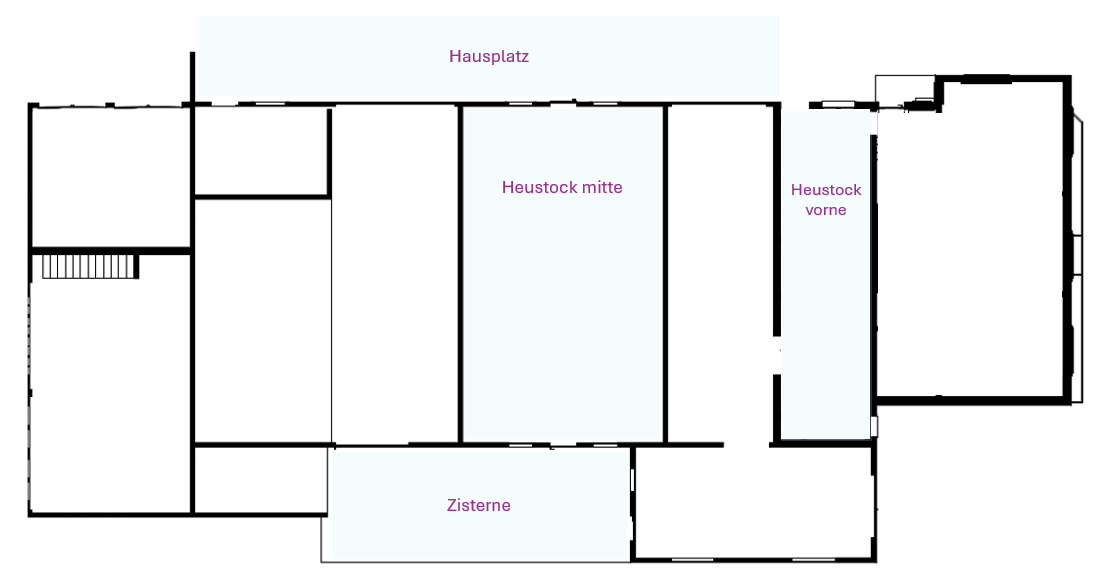
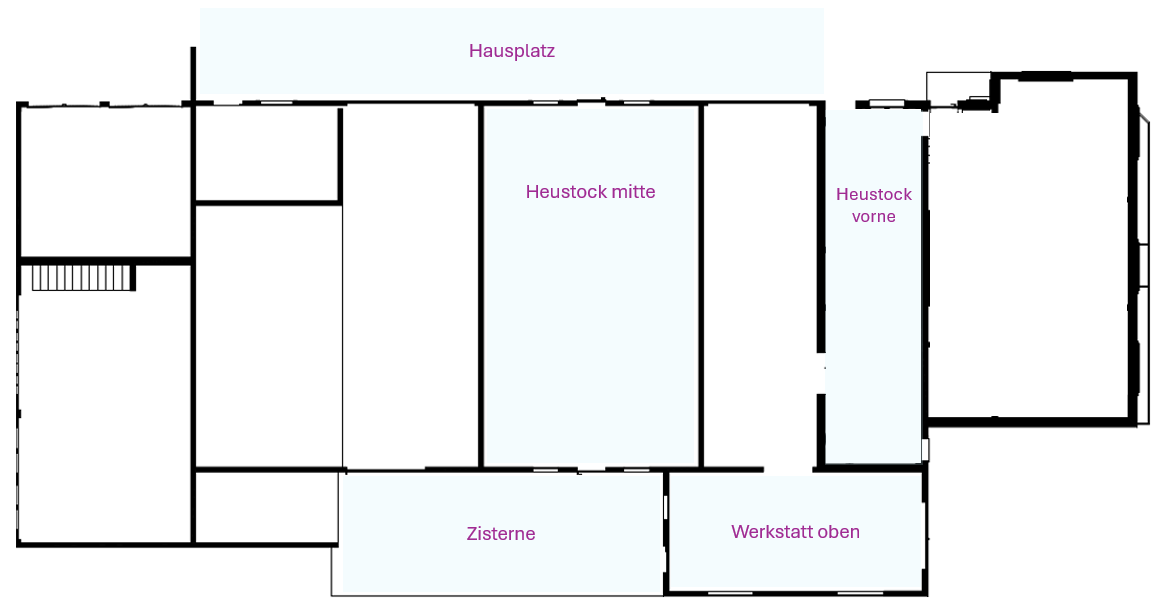
Add files via upload

diff --git a/beleuchtung/app.js b/beleuchtung/app.js
@@ -1,5 +1,5 @@
 const PROXY_URL = "https://beleuchtung-secure-worker.remo-bossart.workers.dev"
-const DEVICES_CONFIG_URL = "./devices.json?v=20260328a"
+const DEVICES_CONFIG_URL = "./devices.json?v=20260406a"
 const POLL_MS = 3000
 const REQUEST_TIMEOUT_MS = 7000
 const CLICK_DEBOUNCE_MS = 600
@@ -39,7 +39,6 @@ const DEFAULT_DEVICES_CONFIG = {
       key: "rossstall",
       name: "Licht Rossstall",
       enabled: true,
-      controllable: false,
       graphic: {
         regions: [
           { floor: "eg", ariaLabel: "Rossstall", style: "left:17.4%; top:18.9%; width:11.6%; height:14.4%;" }
@@ -109,6 +108,16 @@ const DEFAULT_DEVICES_CONFIG = {
       }
     },
     {
+      key: "werkstatt-oben",
+      name: "Licht Werkstatt oben",
+      enabled: true,
+      graphic: {
+        regions: [
+          { floor: "og", ariaLabel: "Werkstatt oben", style: "left:57.3%; top:77.0%; width:22.2%; height:20.3%;" }
+        ]
+      }
+    },
+    {
       key: "heustock-mitte",
       name: "Licht Heustock mitte",
       enabled: true,
@@ -119,7 +128,7 @@ const DEFAULT_DEVICES_CONFIG = {
       }
     },
     {
-      key: "test-shelly",
+      key: "heustock-vorne",
       name: "Licht Heustock vorne",
       enabled: true,
       graphic: {

diff --git a/beleuchtung/grafik.html b/beleuchtung/grafik.html
@@ -255,6 +255,6 @@
     </section>
   </div>
 
-  <script src="app.js?v=20260328e"></script>
+  <script src="app.js?v=20260406a"></script>
 </body>
 </html>

diff --git a/beleuchtung/index.html b/beleuchtung/index.html
@@ -96,6 +96,6 @@
     </section>
   </div>
 
-  <script src="app.js?v=20260328e"></script>
+  <script src="app.js?v=20260406a"></script>
 </body>
 </html>
